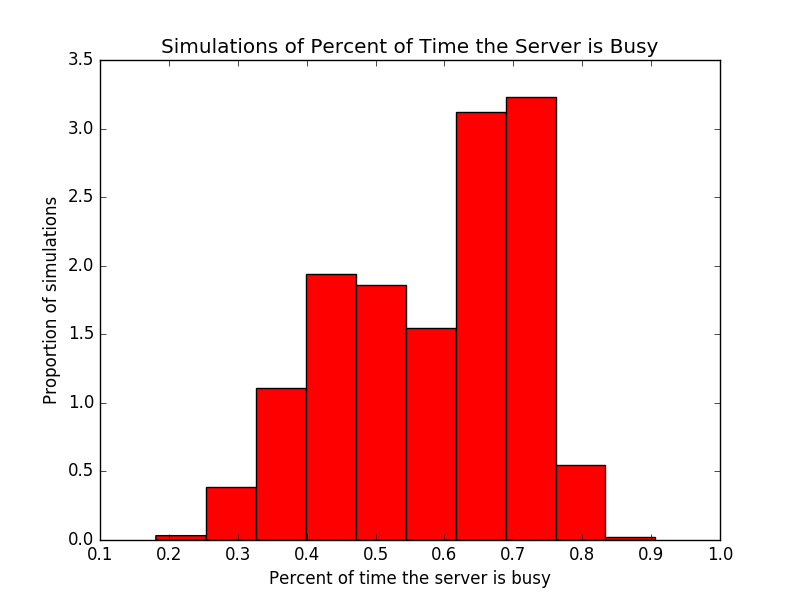
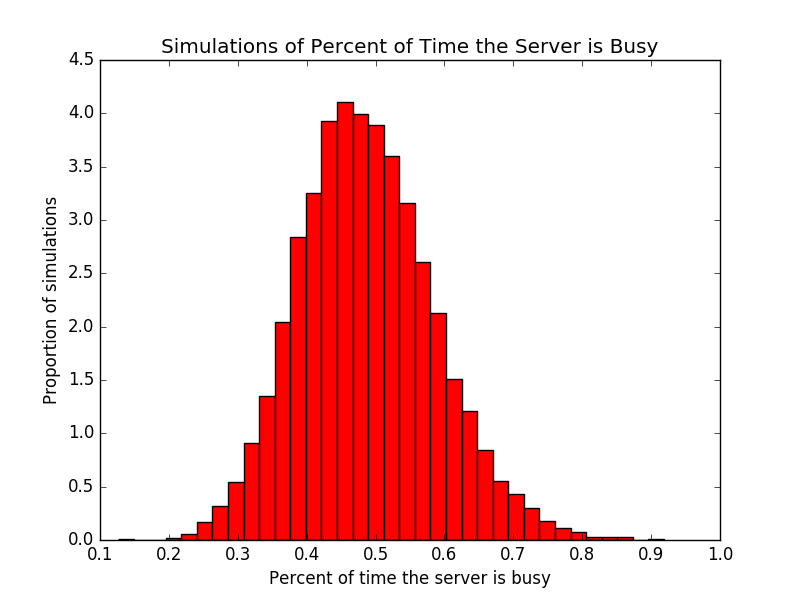
fix busy server plotting issue

diff --git a/lab3/src/lab3.py b/lab3/src/lab3.py
@@ -15,9 +15,9 @@ def main():
     l = 1
     m = 2
     T = 50
-    simulate_part2(l, m, T)
-    simulate_part3_weirdness(l, m, T * 30)
-    simulate_part4(l, m, T)
+    #simulate_part2(l, m, T)
+    simulate_part3_weirdness(l, m, T)
+    #simulate_part4(l, m, T)
 
     #q = m_m_1_queue(l, m, 0, T)
     #find_inter_departure(q)
@@ -42,7 +42,7 @@ def simulate_part2(l, m, T):
     for i in range(0,10000):
         n = simulate_n(l, m)
         q = m_m_1_queue(l, m, n, T)
-        sims.append(calculate_Xt(q, n))
+        sims.append(calculate_Xt(q,n))
     diagram_support = range(1, max(sims) + 1)
     diagram = plt.hist(sims, normed=True, color='r', align='left', bins=diagram_support)
     theory_support = np.arange(1, max(sims)+1)
@@ -71,7 +71,8 @@ def simulate_part3_weirdness(l, m, T):
     for i in range(0,10000):
         n = simulate_n(l,m)
         q = m_m_1_queue(l, m, n, T)
-        sims.append(calculate_frac(q, n, T))
+        t = calculate_frac(q, n, T)
+        sims.append(t)
     '''
     theory_support = np.linspace(stats.gamma.ppf(0.01, l/m), stats.gamma.ppf(0.99, l/m), 100)
     theory  = plt.plot(theory_support, stats.gamma(l/m).pdf(theory_support))
@@ -130,9 +131,10 @@ def simulate_part4(l, m, T):
 
 def calculate_frac(q, n, T):
     t = 0
+    j = 0
     if n == 0:
         t = t + q[1][0]
-        q = q[1:]
+        j = 1
     for i in range(len(q)):
         n = n + q[i][1]
         if n == 0:
